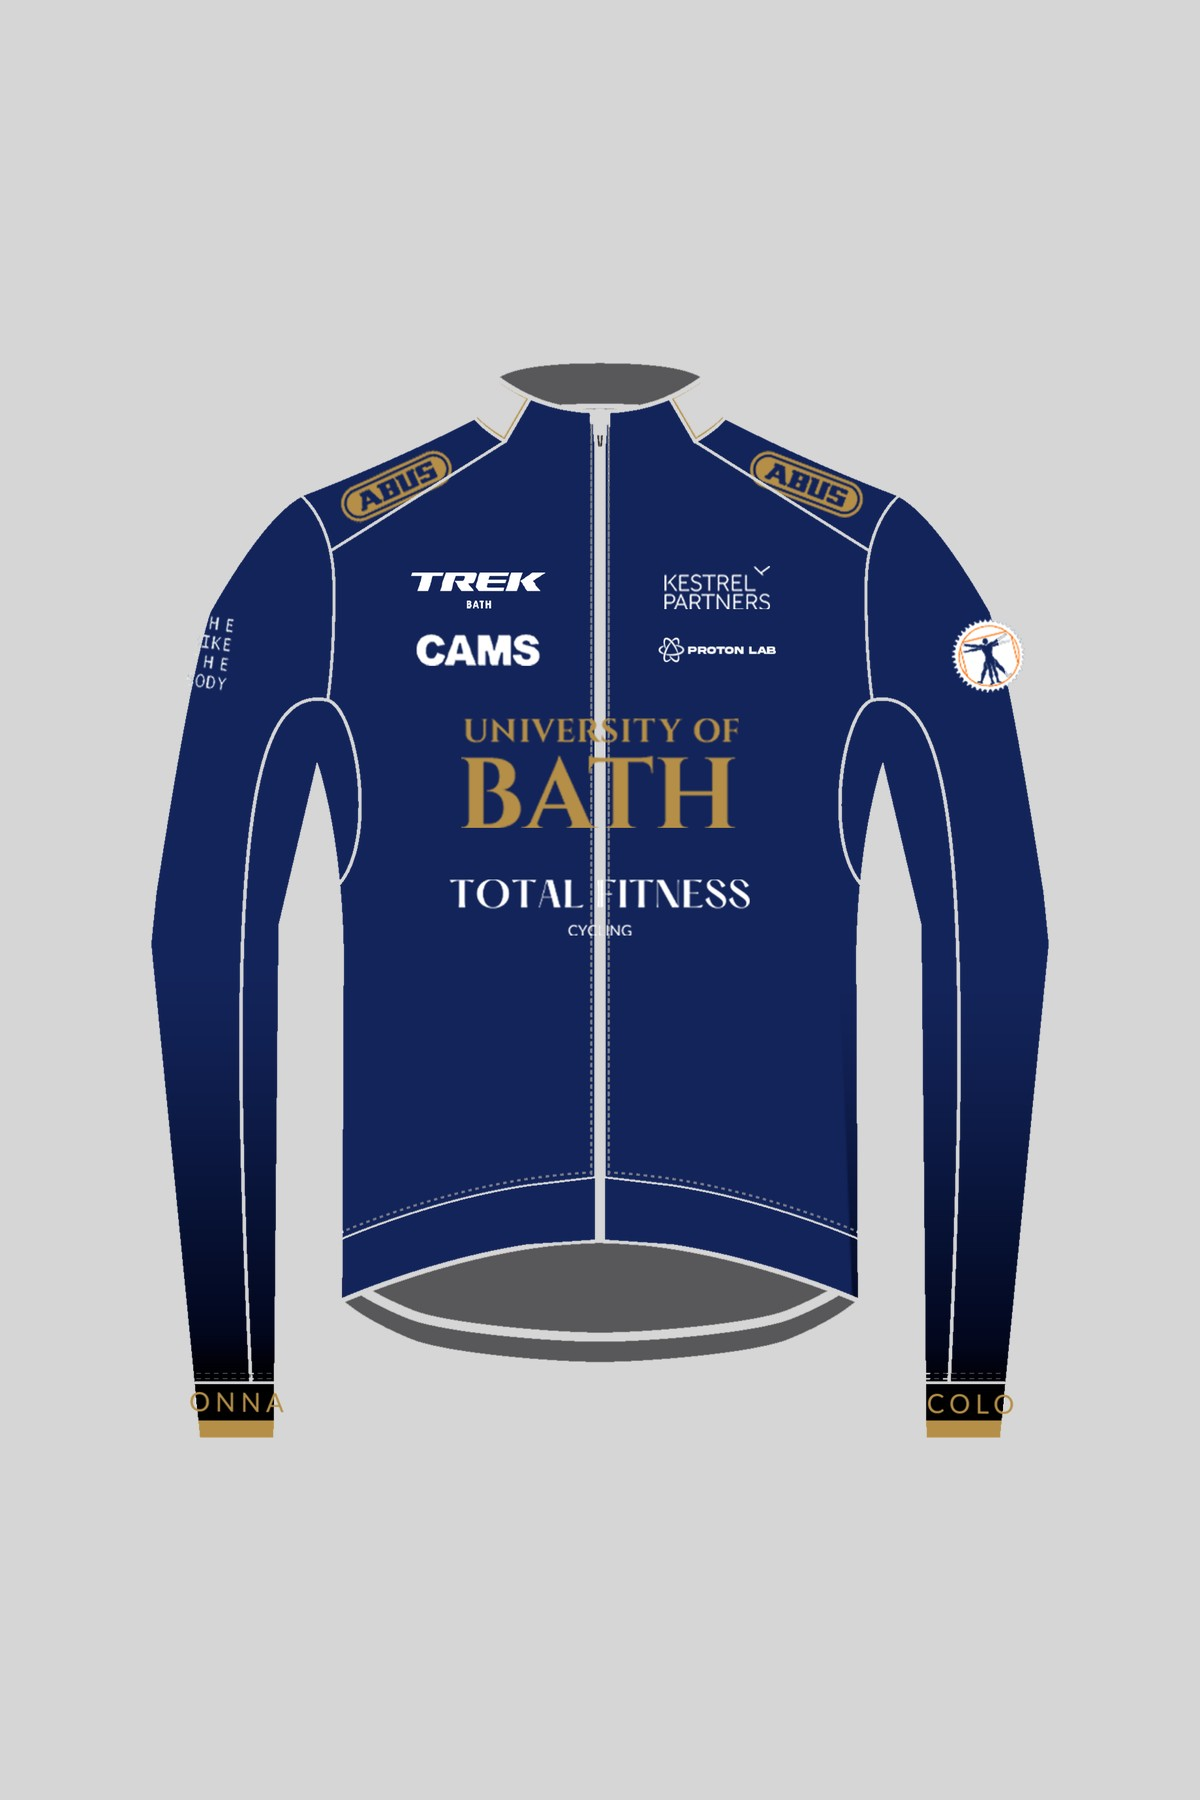
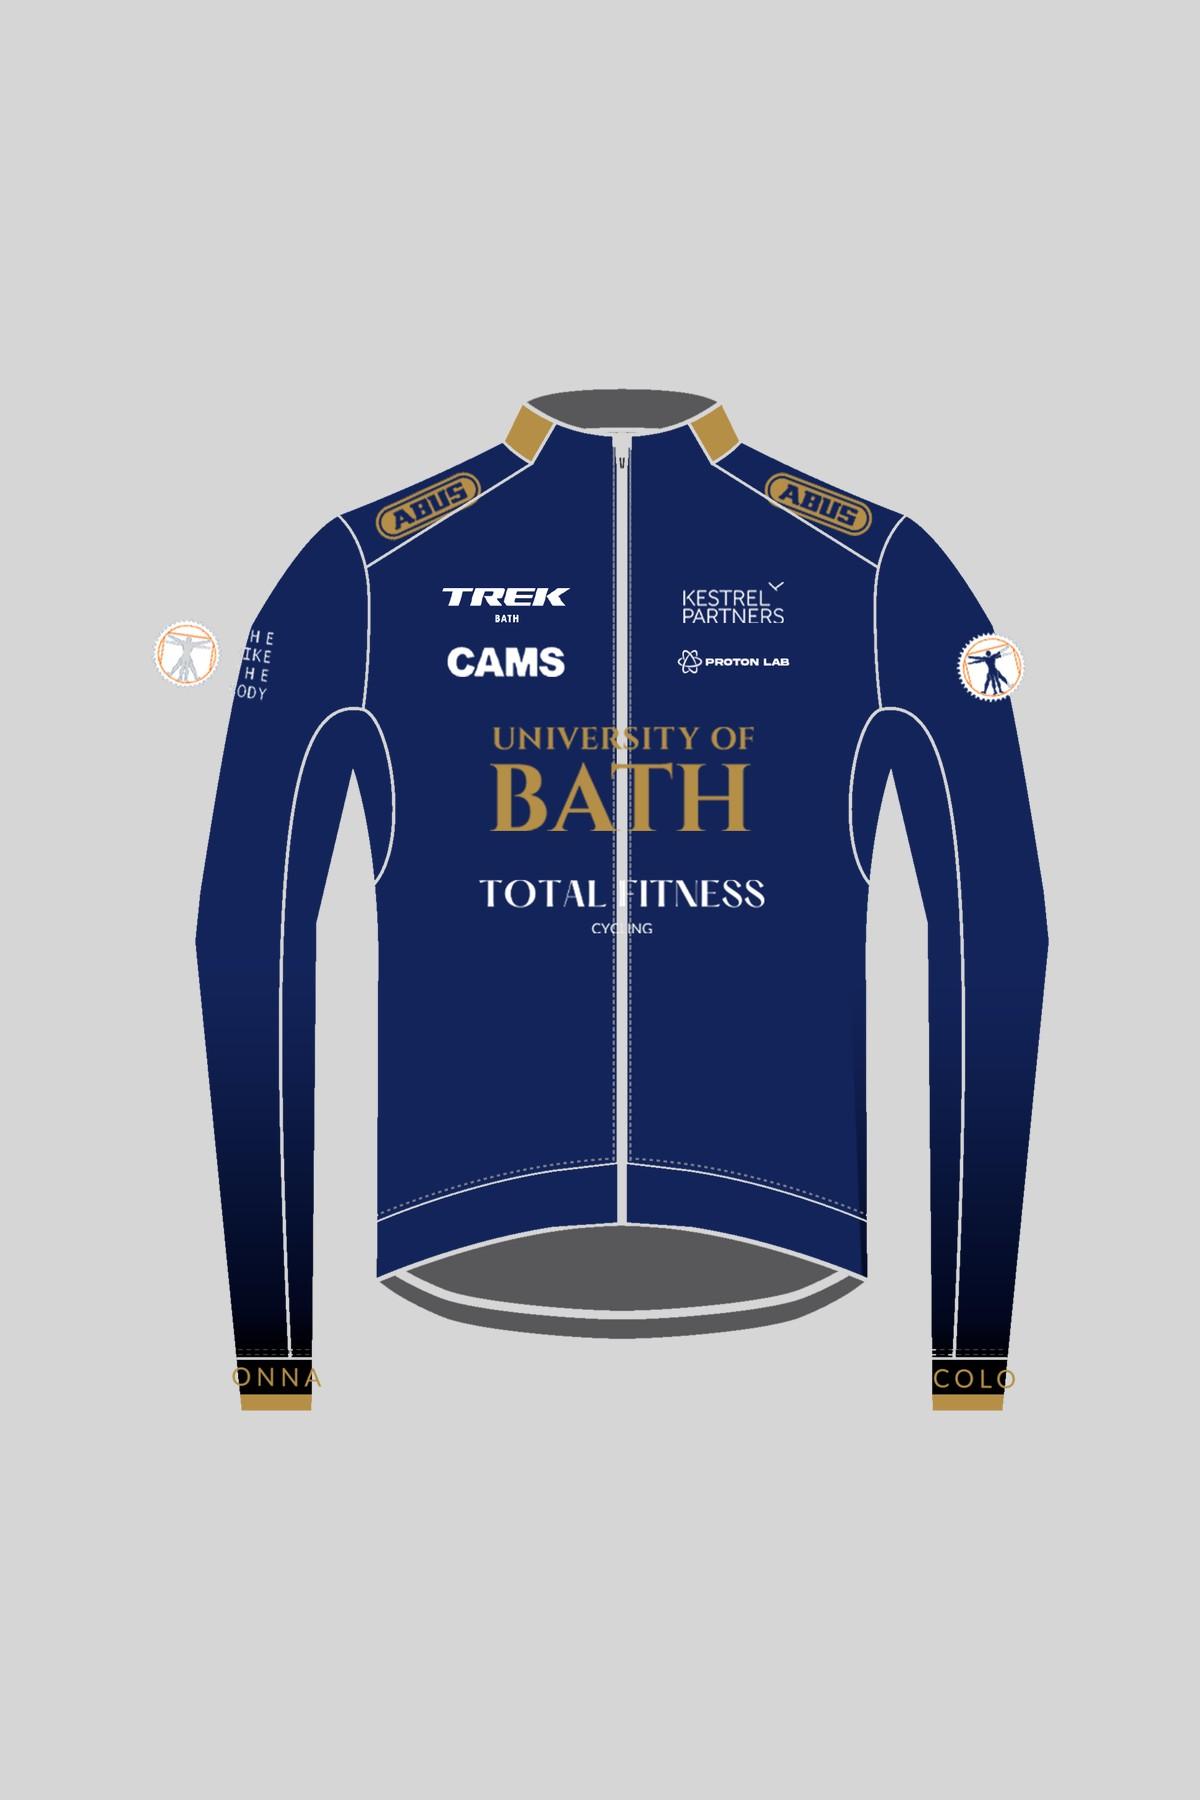
Bath: LS Speedsuit, training bib shorts colourways, standard accessories; socks on all uni shops; jacket collar fix
- Bath: LS Speedsuit £153; bib shorts become White/Black Training Bib Shorts
  (£81, variant on training-bib-shorts); plain Training Bib Shorts removed;
  standard accessories at 10% off (arm/leg warmers, aero arm/leg warmers,
  aero socks, white cycling socks).
- Aero Leg Warmers: new catalogue product (£35 list) + pricelist + Stripe.
- White Cycling Socks (= white-cotton-socks) added to UCL, SURT, Bristol and
  Bath at £10.80; catalogue sizes S/M + L/XL -> S, M, L; stock re-split.
- Extraction merge now absorbs small adjacent pieces: restores the gold collar
  panels on the jacket/fleece renders (changed renders cache-busted).

Claude-Session: https://claude.ai/code/session_016cSVAFLvx3Kr6Cjxvvc5Md

Changed region(s): [[0.1233, 0.1867, 0.8633, 0.8089], [0.7708, 0.3111, 0.8633, 0.4044]]

diff --git a/data/clubs.ts b/data/clubs.ts
@@ -99,6 +99,8 @@ export const clubs: Club[] = [
         customImages: ['/images/clubs/ucl-cycling/ucl-training-mitts-back.jpg'] },
       { name: 'Arm Warmers', handle: 'arm-warmers', category: 'accessories', price: '£18.00',
         image: '/images/clubs/ucl-cycling/ucl-arm-warmers-front.jpg' },
+      { name: 'White Cycling Socks', handle: 'white-cycling-socks', category: 'accessories',
+        catalogHandle: 'white-cotton-socks', price: '£10.80', image: '/images/blank.png' },
     ],
   },
   {
@@ -139,6 +141,8 @@ export const clubs: Club[] = [
         image: '/images/clubs/swansea-university-road-team/surt-aero-socks-front.jpg' },
       { name: 'Arm Warmers', handle: 'arm-warmers', category: 'accessories', hideCatalogImages: true, price: '£18.00',
         image: '/images/clubs/swansea-university-road-team/surt-arm-warmers-front.jpg' },
+      { name: 'White Cycling Socks', handle: 'white-cycling-socks', category: 'accessories',
+        catalogHandle: 'white-cotton-socks', price: '£10.80', image: '/images/blank.png' },
       { name: 'Buff', handle: 'buff', category: 'accessories', price: '£9.00',
         image: '/images/clubs/swansea-university-road-team/surt-buff-front.jpg',
         customImages: ['/images/clubs/swansea-university-road-team/surt-buff-back.jpg'] },
@@ -180,6 +184,8 @@ export const clubs: Club[] = [
         customImages: ['/images/clubs/university-of-bristol-cycling-club/uobcc-ss-roadsuit-back.jpg'] },
       { name: 'Arm Warmers', handle: 'arm-warmers', category: 'accessories', price: '£18.00',
         image: '/images/clubs/university-of-bristol-cycling-club/uobcc-arm-warmers-front.jpg' },
+      { name: 'White Cycling Socks', handle: 'white-cycling-socks', category: 'accessories',
+        catalogHandle: 'white-cotton-socks', price: '£10.80', image: '/images/blank.png' },
     ],
   },
   {
@@ -195,39 +201,55 @@ export const clubs: Club[] = [
         customImages: ['/images/clubs/university-of-bath-cycling-club/bath-ss-race-jersey-back.jpg'] },
       { name: 'SS Club Jersey', handle: 'ss-club-jersey', category: 'top', price: '£45.00',
         image: '/images/clubs/university-of-bath-cycling-club/bath-ss-club-jersey-front.jpg',
-        customImages: ['/images/clubs/university-of-bath-cycling-club/bath-ss-club-jersey-back.jpg'] },
+        customImages: ['/images/clubs/university-of-bath-cycling-club/bath-ss-club-jersey-back.jpg?v=2'] },
       { name: 'LS MTB Jersey', handle: 'mtb-jersey', category: 'top', hideCatalogImages: true, price: '£31.50',
         image: '/images/clubs/university-of-bath-cycling-club/bath-mtb-jersey-front.jpg',
         customImages: ['/images/clubs/university-of-bath-cycling-club/bath-mtb-jersey-back.jpg'] },
       { name: 'LS Fleece Jersey', handle: 'ls-fleece-jersey', category: 'top', price: '£81.00',
-        image: '/images/clubs/university-of-bath-cycling-club/bath-ls-fleece-jersey-front.jpg',
+        image: '/images/clubs/university-of-bath-cycling-club/bath-ls-fleece-jersey-front.jpg?v=2',
         customImages: ['/images/clubs/university-of-bath-cycling-club/bath-ls-fleece-jersey-back.jpg'] },
       { name: 'Winter Jacket', handle: 'winter-jacket', category: 'top', price: '£99.00',
-        image: '/images/clubs/university-of-bath-cycling-club/bath-winter-jacket-front.jpg',
+        image: '/images/clubs/university-of-bath-cycling-club/bath-winter-jacket-front.jpg?v=2',
         customImages: ['/images/clubs/university-of-bath-cycling-club/bath-winter-jacket-back.jpg'] },
       { name: 'Summer Gilet', handle: 'summer-gilet', category: 'top', price: '£50.00',
         image: '/images/clubs/university-of-bath-cycling-club/bath-summer-gilet-front.jpg',
         customImages: ['/images/clubs/university-of-bath-cycling-club/bath-summer-gilet-back.jpg'] },
-      { name: 'White Race Bib Shorts', handle: 'white-race-bib-shorts', category: 'lower',
-        catalogHandle: 'race-bib-shorts', variant: 'White', price: '£99.00',
-        image: '/images/clubs/university-of-bath-cycling-club/bath-white-race-bib-shorts-front.jpg',
-        customImages: ['/images/clubs/university-of-bath-cycling-club/bath-white-race-bib-shorts-back.jpg'] },
-      { name: 'Black Race Bib Shorts', handle: 'black-race-bib-shorts', category: 'lower',
-        catalogHandle: 'race-bib-shorts', variant: 'Black', price: '£99.00',
-        image: '/images/clubs/university-of-bath-cycling-club/bath-black-race-bib-shorts-front.jpg',
-        customImages: ['/images/clubs/university-of-bath-cycling-club/bath-black-race-bib-shorts-back.jpg'] },
-      // Elijah's call (2026-10-05): the flat strap artwork looked odd, so this
-      // shows the catalogue photo (same as the Bristol product's second image)
-      // instead of a club render. Must match the products.ts URL exactly so
-      // the gallery doesn't repeat it.
-      { name: 'Training Bib Shorts', handle: 'training-bib-shorts', category: 'lower', price: '£81.00',
+      // Two colourways of the training bib short. Elijah's call (2026-10-05):
+      // the flat strap artwork looked odd, so the black pair shows the
+      // catalogue photo (as on the Bristol product); there is no white
+      // catalogue photo, so the white pair keeps its club render and the
+      // catalogue photo follows it in the gallery.
+      { name: 'White Training Bib Shorts', handle: 'white-training-bib-shorts', category: 'lower',
+        catalogHandle: 'training-bib-shorts', variant: 'White', price: '£81.00',
+        image: '/images/clubs/university-of-bath-cycling-club/bath-white-training-bib-shorts-front.jpg',
+        customImages: ['/images/clubs/university-of-bath-cycling-club/bath-white-training-bib-shorts-back.jpg'] },
+      { name: 'Black Training Bib Shorts', handle: 'black-training-bib-shorts', category: 'lower',
+        catalogHandle: 'training-bib-shorts', variant: 'Black', price: '£81.00',
         image: '/images/products/training-bib-shorts/training-bib-shorts1.jpg?v=3' },
       { name: 'Training Bib Tights', handle: 'training-bib-tights', category: 'lower', price: '£108.00',
-        image: '/images/clubs/university-of-bath-cycling-club/bath-training-bib-tights-front.jpg',
+        image: '/images/clubs/university-of-bath-cycling-club/bath-training-bib-tights-front.jpg?v=2',
         customImages: ['/images/clubs/university-of-bath-cycling-club/bath-training-bib-tights-back.jpg'] },
       { name: 'SS Roadsuit', handle: 'ss-roadsuit', category: 'lower', price: '£126.00',
         image: '/images/clubs/university-of-bath-cycling-club/bath-ss-roadsuit-front.jpg?v=2',
         customImages: ['/images/clubs/university-of-bath-cycling-club/bath-ss-roadsuit-back.jpg?v=2'] },
+      { name: 'LS Speedsuit', handle: 'ls-speedsuit', category: 'lower', price: '£153.00',
+        image: '/images/clubs/university-of-bath-cycling-club/bath-ls-speedsuit-front.jpg',
+        customImages: ['/images/clubs/university-of-bath-cycling-club/bath-ls-speedsuit-back.jpg'] },
+      // Standard (undesigned) accessories: catalogue photo where one exists,
+      // the blank placeholder otherwise. Image URLs match products.ts exactly
+      // so the gallery doesn't repeat them.
+      { name: 'Arm Warmers', handle: 'arm-warmers', category: 'accessories', price: '£18.00',
+        image: '/images/blank.png' },
+      { name: 'Leg Warmers', handle: 'leg-warmers', category: 'accessories', price: '£27.00',
+        image: '/images/products/leg-warmers/leg-warmers1.JPG?v=2' },
+      { name: 'Aero Arm Warmers', handle: 'aero-arm-warmers', category: 'accessories', price: '£22.50',
+        image: '/images/products/aero-arm-warmers/aero-arm-warmers1.jpg?v=2' },
+      { name: 'Aero Leg Warmers', handle: 'aero-leg-warmers', category: 'accessories', price: '£31.50',
+        image: '/images/blank.png' },
+      { name: 'Aero Socks', handle: 'aero-socks', category: 'accessories', price: '£18.00',
+        image: '/images/products/aero-socks/aero-socks1.jpg?v=2' },
+      { name: 'White Cycling Socks', handle: 'white-cycling-socks', category: 'accessories',
+        catalogHandle: 'white-cotton-socks', price: '£10.80', image: '/images/blank.png' },
     ],
   },
 ]

diff --git a/data/products.ts b/data/products.ts
@@ -471,6 +471,25 @@ export const products: Product[] = [
     priceRange: { minVariantPrice: { amount: '30.00', currencyCode: 'GBP' } },
     ...col('race', 'Race'), tags: ['accessories', 'leg-warmers', 'moq-10'], availableForSale: true,
   },
+  {
+    id: 'prod_038', handle: 'aero-leg-warmers', title: 'Aero Leg Warmers',
+    description: 'Full leg coverage, cut for speed. The Aero Leg Warmers use a smooth, close-fitting fabric that sits flush against the leg and holds its line at race pace — warmth for cold starts and early-season racing without giving anything away to the wind.',
+    bullets: [
+      'Close-fitting aero construction that holds its shape at speed',
+      'Brushed inner face for warmth on cold starts',
+      'Easy on, easy off — packable into a rear pocket',
+      'Designed and developed by riders, for cold race-day conditions',
+    ],
+    seo: {
+      title: 'Aero Leg Warmers | Race Leg Warmers | Proton Lab',
+      description: 'Smooth, close-fitting construction that holds its line at race pace. The Proton Lab Aero Leg Warmers bring full leg warmth to cold starts and early-season racing.',
+      keywords: 'aero leg warmers, race leg warmers, cycling leg warmers, custom leg warmers, cold weather racing, cycling accessories UK',
+    },
+    featuredImage: img('aero-leg-warmers'), images: { nodes: [img('aero-leg-warmers')] },
+    variants: sizes('038', '35.00'),
+    priceRange: { minVariantPrice: { amount: '35.00', currencyCode: 'GBP' } },
+    ...col('race', 'Race'), tags: ['accessories', 'leg-warmers', 'aero', 'moq-10'], availableForSale: true,
+  },
 
   // ─── TRAINING COLLECTION ──────────────────────────────────────────────────
 
@@ -892,8 +911,9 @@ export const products: Product[] = [
     featuredImage: img('white-cotton-socks', 1600, 1066), images: { nodes: [img('white-cotton-socks', 1600, 1066)] },
     variants: {
       nodes: [
-        { id: 'v035_sm', title: 'S/M', availableForSale: true, price: { amount: '12.00', currencyCode: 'GBP' }, selectedOptions: [{ name: 'Size', value: 'S/M' }] },
-        { id: 'v035_lx', title: 'L/XL', availableForSale: true, price: { amount: '12.00', currencyCode: 'GBP' }, selectedOptions: [{ name: 'Size', value: 'L/XL' }] },
+        { id: 'v035_s', title: 'S', availableForSale: true, price: { amount: '12.00', currencyCode: 'GBP' }, selectedOptions: [{ name: 'Size', value: 'S' }] },
+        { id: 'v035_m', title: 'M', availableForSale: true, price: { amount: '12.00', currencyCode: 'GBP' }, selectedOptions: [{ name: 'Size', value: 'M' }] },
+        { id: 'v035_l', title: 'L', availableForSale: true, price: { amount: '12.00', currencyCode: 'GBP' }, selectedOptions: [{ name: 'Size', value: 'L' }] },
       ],
     },
     priceRange: { minVariantPrice: { amount: '12.00', currencyCode: 'GBP' } },
